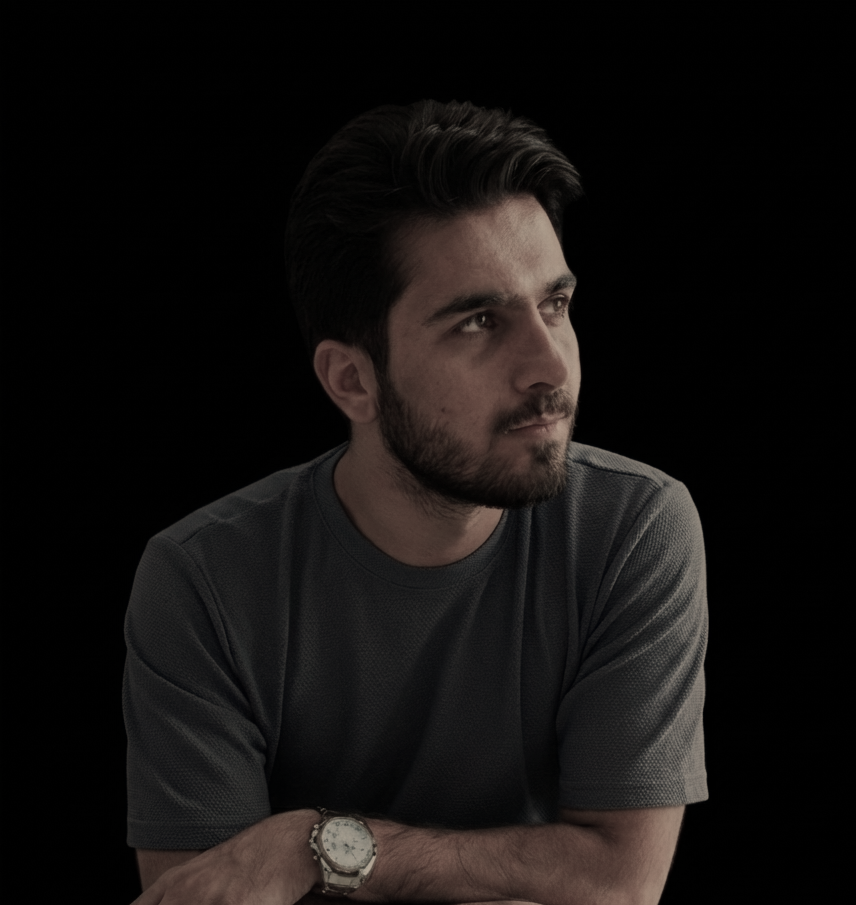
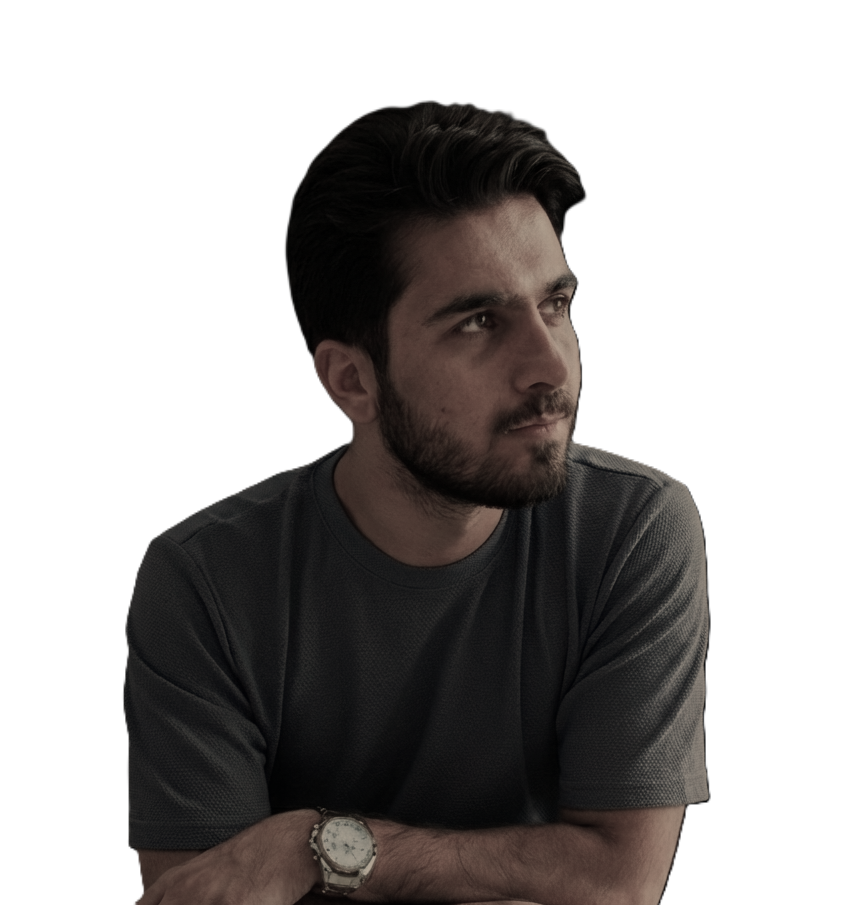
change section header

diff --git a/src/components/template/HomeFeatuer/HeaderSection.jsx b/src/components/template/HomeFeatuer/HeaderSection.jsx
@@ -5,14 +5,14 @@ import { MdOutlineKeyboardArrowLeft } from "react-icons/md"
 function HeaderSection() {
   return (
     <>
-      <div className=" bg-black min-h-screen md:min-h-[45rem] flex justify-center rounded-b-[3%]">
-        <div className=" flex items-center justify-center flex-col max-h-screen md:w-[80%] mt-2 lg:w-[55%] xl:w-[45%] z-0 bg-[url(/Image/bgAvatar.png)] bg-cover  md:bg-none">
-          <div className="flex flex-col mt-50 space-y-1 max-w-[80%] md:max-w-[55%] z-10">
+      <div className="min-h-[45rem] w-full px-30 bg-gray-300 dark:bg-zinc-900 border-b border-b-zinc-300 rounded-b-2xl ">
+        <div className=" flex ">
+
+          <div className="flex flex-col justify-center items-start space-y-1 h-[45rem] w-[50%] pt-50">
 
             <h2 className='text-2xl text-white md:text-zinc-600 '>سلام من</h2>
-            <h1 className='text-4xl text-green-700 mr-3 py-3 px-5 bg-black/50 w-[16rem] rounded-2xl '>محسن پیغامی</h1>
+            <h1 className='text-4xl text-green-700 mr-3 py-3 px-5 rounded-2xl '>محسن پیغامی</h1>
             <h2 className='text-2xl text-white md:text-zinc-600'>هستم .</h2>
-
 
             <p className='text-md text-white md:text-zinc-600 mt-6 font-bold leading-6'>
               یک طراح سایت زبده، ترکیبی از خلاقیت هنری، مهارت فنی پیشرفته و درک عمیق از تجربه کاربری (UX/UI) است.
@@ -28,11 +28,12 @@ function HeaderSection() {
                 <MdOutlineKeyboardArrowLeft />
               </button>
             </div>
-
           </div>
-        </div>
 
-        <div className="mt-[3rem] hidden lg:block lg:w-[45%] xl:w-[40%] h-[44rem] bg-[url(/Image/bgAvatar.png)] bg-cover">
+
+          <div className="flex items-center justify-center w-[50%] h-[45rem]">
+            <div className="w-[60%] h-[60%] pt-50 rounded-full border-4 border-green-900 bg-[url(/Image/Avatar.jpg)] bg-contain bg-cover bg-no-repeat"></div>
+          </div>
 
         </div>
       </div>
@@ -41,3 +42,13 @@ function HeaderSection() {
 }
 
 export default HeaderSection
+
+
+
+//   <div className=    z-10">
+
+
+
+
+
+//   </div>
